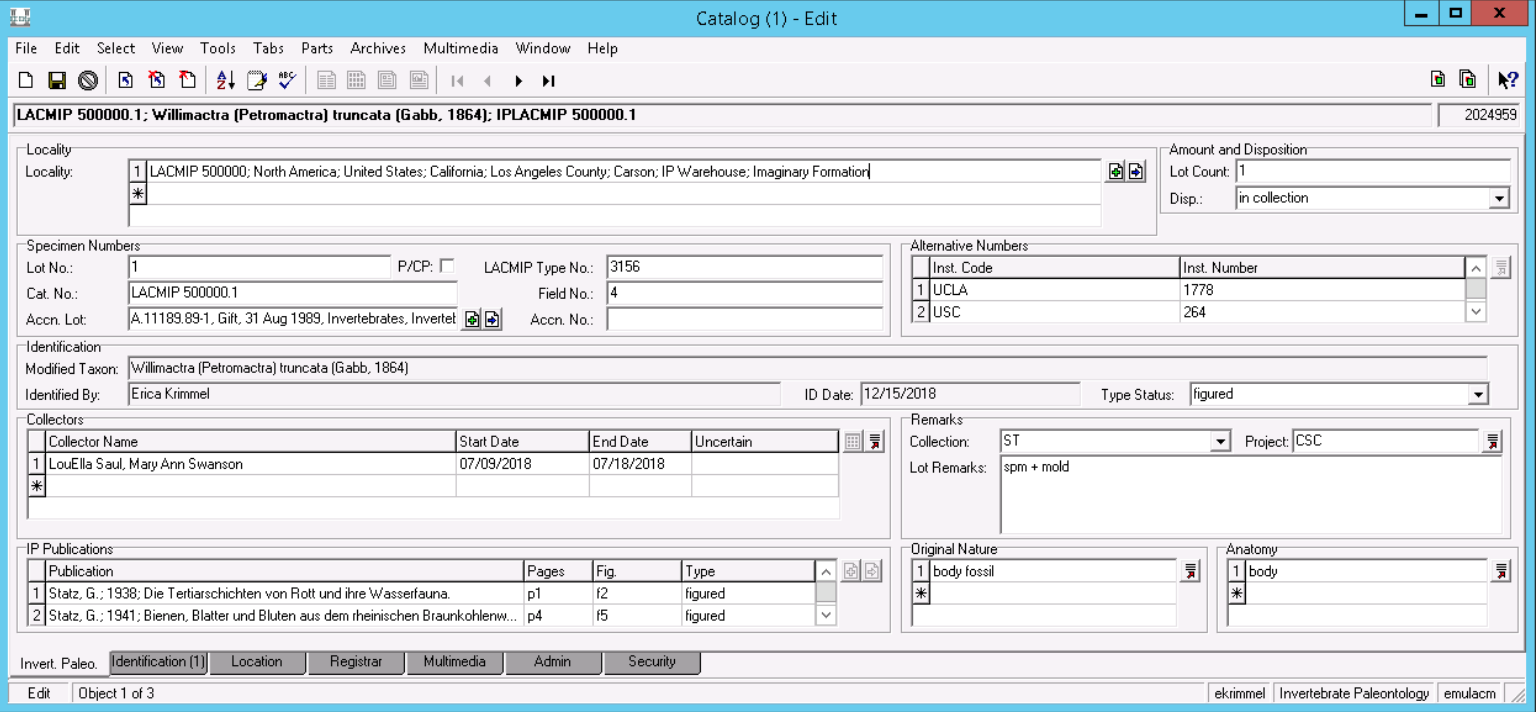
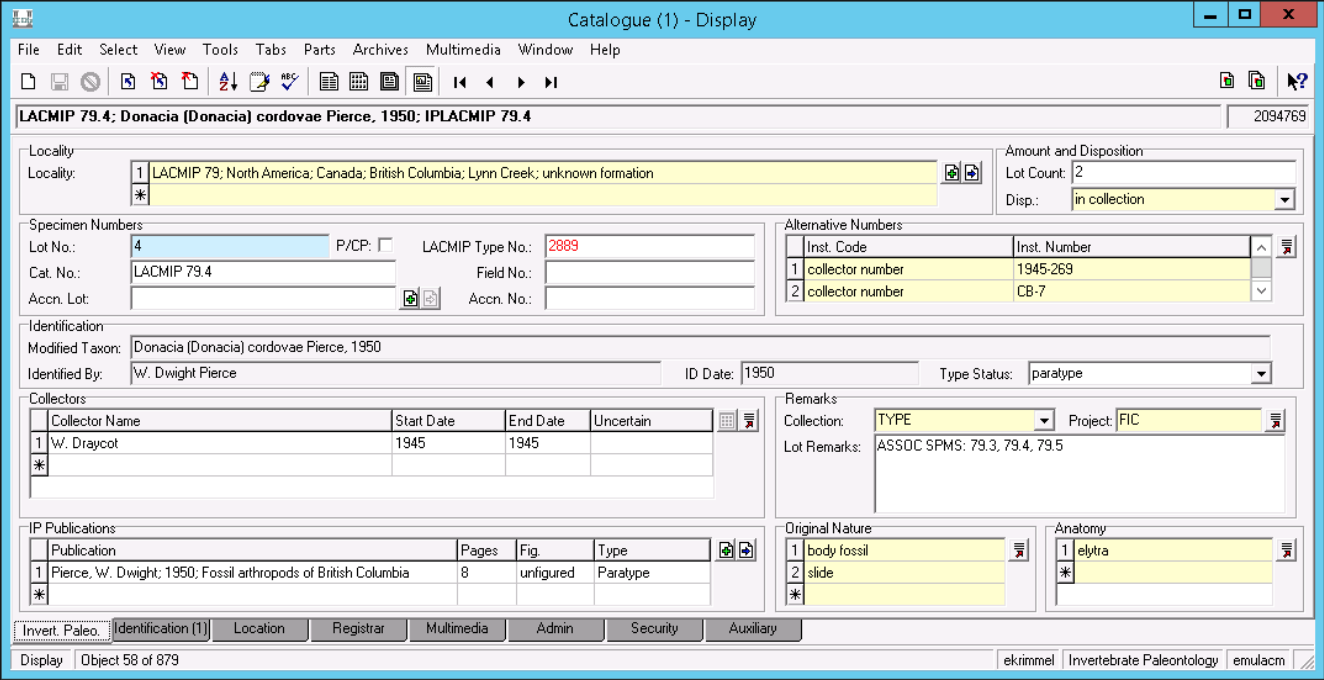
update image to illustrated field highlighting

diff --git a/docs/_documentation/catalogue.md b/docs/_documentation/catalogue.md
@@ -10,7 +10,7 @@ For detailed instructions on entering new records in this module, please [Catalo
 
 ## Invert. Paleo. tab
 
-{% include figure image_path="/assets/images/catalogue_invertpaleo.png" alt="screenshot of the invert paleo tab in the catalogue module" caption="Screenshot of the *Invert. Paleo.* tab of the Catalogue module." %}
+{% include figure image_path="/assets/images/catalogue_invertpaleo.png" alt="screenshot of the invert paleo tab in the catalogue module" caption="Screenshot of the *Invert. Paleo.* tab of the Catalogue module. Users in the *Invertebrate Paleontology* and *IP Cataloging* permission groups have certain fields highlighted to assist with data entry. The Museum's database manager can adjust this or other field highlighting as desired." %}
 
 This tab, along with *Identifications (1)*, is where the bulk of our specimen data lives. Fields on this tab are...
 
